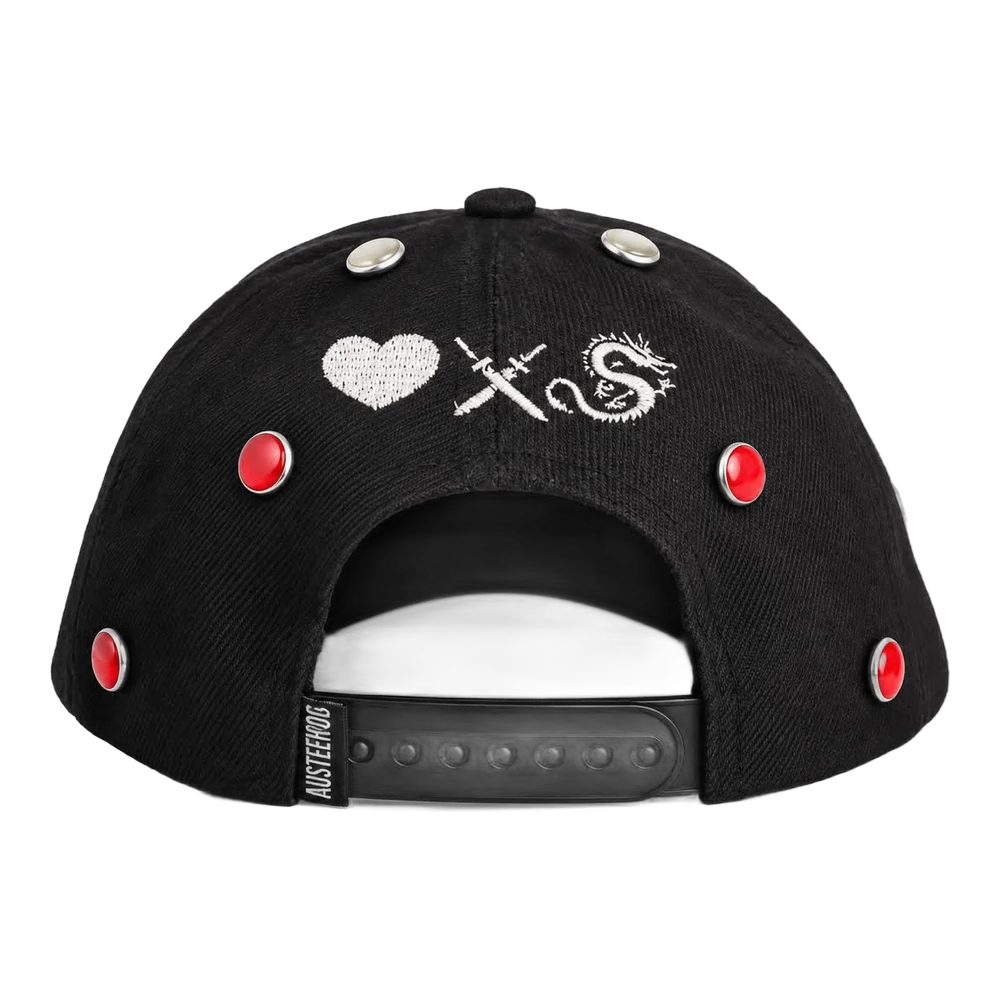
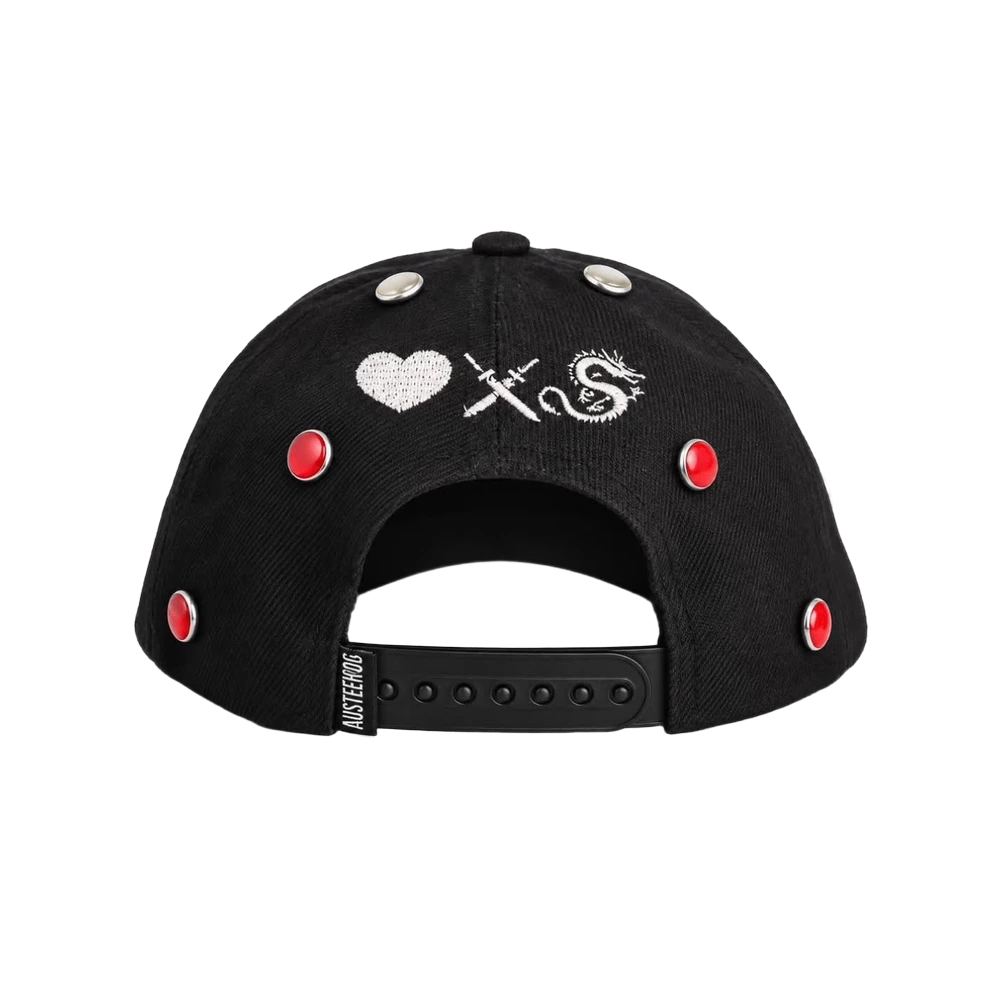
YOWA: ₦100 test price, New → white tees, cap & skull back views
- Set skull-cap price to ₦100 in index.html and api/checkout.js (live Paystack test)
- Update api/chat.js knowledge to note the test price
- New category thumbnail changed to ringer-tee (white tee), so the New button preview shows the white tee
- Black 042 cap rear red-beads photo replaced with cleaner image 44 cutout
- Added skull-black-back-white.webp (image 45 cutout) as back view of Black skull cap with white beads
- skull looks: Black + White beads now shows ['skull-black-white', 'skull-black-back-white']
- capLooks: black + red already includes cap-black-rear-red.webp (no code change needed)

Restore skull-cap price to 18000 after the test.

Claude-Session: https://claude.ai/code/session_01EVq2W64n9gGjShBVBAZEmT

Changed region(s): [[0.031, 0.186, 0.961, 0.837], [0.341, 0.527, 0.372, 0.558]]

diff --git a/yowa/site/index.html b/yowa/site/index.html
@@ -884,10 +884,10 @@ const PRODUCTS = [
     opts: [{ name: 'Colour', values: [{ v: 'Black', sw: '#121212' }, { v: 'Purple', sw: '#5A3FC6' }, { v: 'Grey', sw: '#A3A3A7' }] }],
     looks: ['Black', 'Purple', 'Grey'].map(C => ({ when: { Colour: C }, images: [IMG + 'jorts-' + C.toLowerCase() + '.webp'] })),
     desc: 'Long jorts with the signature on the front and beads down both sides. Handmade, limited run.' },
-  { id: 'skull-cap', name: 'Skull Cap', cat: 'caps', cut: true, price: 18000, art: 'beanie', sizes: ['One size'],
+  { id: 'skull-cap', name: 'Skull Cap', cat: 'caps', cut: true, price: 100, art: 'beanie', sizes: ['One size'],
     opts: [{ name: 'Colour', values: [{ v: 'Grey', sw: CAMO }, { v: 'Black', sw: '#121212' }] }, SKULL_BEADS],
     looks: [skullLook('Grey', 'No beads', ['skull-camo', 'skull-camo-sig']), skullLook('Grey', 'White beads', ['skull-camo-front-white', 'skull-camo-back-white']), skullLook('Grey', 'Black beads', ['skull-camo-front-black', 'skull-camo-back-black']),
-      skullLook('Black', 'No beads', ['skull-black-front-plain', 'skull-black-back-plain']), skullLook('Black', 'White beads', ['skull-black-white']), skullLook('Black', 'Black beads', ['skull-black-front-black', 'skull-black-back-black'])],
+      skullLook('Black', 'No beads', ['skull-black-front-plain', 'skull-black-back-plain']), skullLook('Black', 'White beads', ['skull-black-white', 'skull-black-back-white']), skullLook('Black', 'Black beads', ['skull-black-front-black', 'skull-black-back-black'])],
     desc: 'Skull cap with stitched seams, in grey camo or black. Keep it clean or add white or black beads. One size.' },
   { id: 'cap-042', name: '042 Cap', cat: 'caps', cut: true, price: 45000, art: 'cap', sizes: ['One size'],
     opts: [{ name: 'Colour', values: [{ v: 'Black', sw: '#121212' }, { v: 'Green', sw: '#2F5A38' }, { v: 'Navy', sw: '#1B2A5E' }, { v: 'Green & Yellow', sw: 'linear-gradient(135deg,#2F5A38 50%,#F2A60C 50%)' }] }, BEAD_COLOURS],
@@ -1268,7 +1268,7 @@ const LIBRARY = [
   // A section in the menu: close it and glide there, without leaving an extra step in the back history.
   $$('#menu a.go').forEach(a => a.addEventListener('click', e => { e.preventDefault(); closeMenu(true); backstack.drop(); location.replace(a.getAttribute('href')); }));
   // Shop opens its categories in place: a round thumbnail and how many pieces each has. Picking one slides in the side shop
-  const thumbOf = { new: 'jorts', all: 'liberty-raglan', tops: 'bybd-tee', caps: 'skull-cap', bottoms: 'joggers' };
+  const thumbOf = { new: 'ringer-tee', all: 'liberty-raglan', tops: 'bybd-tee', caps: 'skull-cap', bottoms: 'joggers' };
   CATS.forEach(([id, label], i) => {
     const items = PRODUCTS.filter(p => id === 'all' || (id === 'new' ? !!p.isNew : p.cat === id)); if (!items.length) return;
     const p = PRODUCTS.find(q => q.id === thumbOf[id]) || items[0], b = document.createElement('button');

diff --git a/yowa/site/api/chat.js b/yowa/site/api/chat.js
@@ -22,7 +22,7 @@ ABOUT YOWA
 - Instagram: @yowa_bybd. Everything is handmade in small limited runs. When a run is gone, it is gone.
 
 THE SITE AND THE SHOP
-- Prices (naira): Liberty Raglan 40,000; Ringer Tee 22,000; White Long Sleeve 23,500; Be Different Tee 30,000; YOWA Logo Tee 30,000; Joggers 35,000; Jorts 30,000; Skull Cap 18,000; 042 Cap 45,000. The New section holds the two white tees (Ringer Tee and White Long Sleeve).
+- Prices (naira): Liberty Raglan 40,000; Ringer Tee 22,000; White Long Sleeve 23,500; Be Different Tee 30,000; YOWA Logo Tee 30,000; Joggers 35,000; Jorts 30,000; Skull Cap 100 (test price); 042 Cap 45,000. The New section holds the two white tees (Ringer Tee and White Long Sleeve).
 - Pieces: Liberty Raglan (black body; sleeves in black, red, blue or grey; with beads or without); Ringer Tee and YOWA Long Sleeve (white); Be Different Tee (black, YOWA on the chest, Be You Be Different on the back); YOWA Logo Tee (black, big YOWA wordmark); Joggers (black or grey, with or without beads, no size choice); Jorts (black, purple or grey, always with beads, no size choice); Skull Cap (grey camo or black, clean or with white or black beads; one size); 042 Cap, the patch cap (black, green, navy, or green with a yellow peak; always with beads, in white, red, purple or black; one size).
 - Tops come in M, L, XL and XXL with a relaxed fit (XXL is not available on the Liberty Raglan). Joggers and jorts have no size choice. Caps and skull caps are one size.
 - Shop sections: New, All, Tops, Caps, Bottoms. Tap the eye on a piece to see it, the bag to add it. Pick colour, beads, size and quantity, then add to cart.

diff --git a/yowa/site/api/checkout.js b/yowa/site/api/checkout.js
@@ -6,7 +6,7 @@
 
 const PRICES = {
   'liberty-raglan': 40000, 'ringer-tee': 22000, 'yowa-long-sleeve': 23500, 'bybd-tee': 30000, 'logo-tee': 30000,
-  'joggers': 35000, 'jorts': 30000, 'skull-cap': 18000, 'cap-042': 45000
+  'joggers': 35000, 'jorts': 30000, 'skull-cap': 100, 'cap-042': 45000
 };
 const NAMES = {
   'liberty-raglan': 'Liberty Raglan', 'ringer-tee': 'Ringer Tee', 'yowa-long-sleeve': 'YOWA Long Sleeve', 'bybd-tee': 'Be Different Tee',
